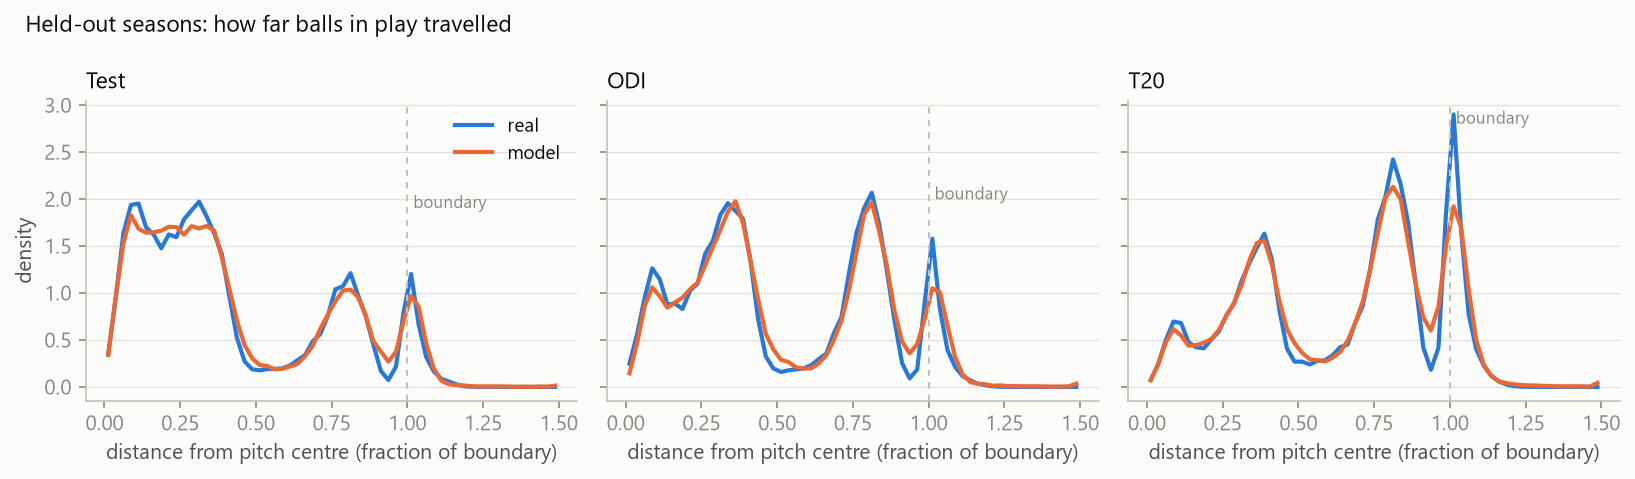
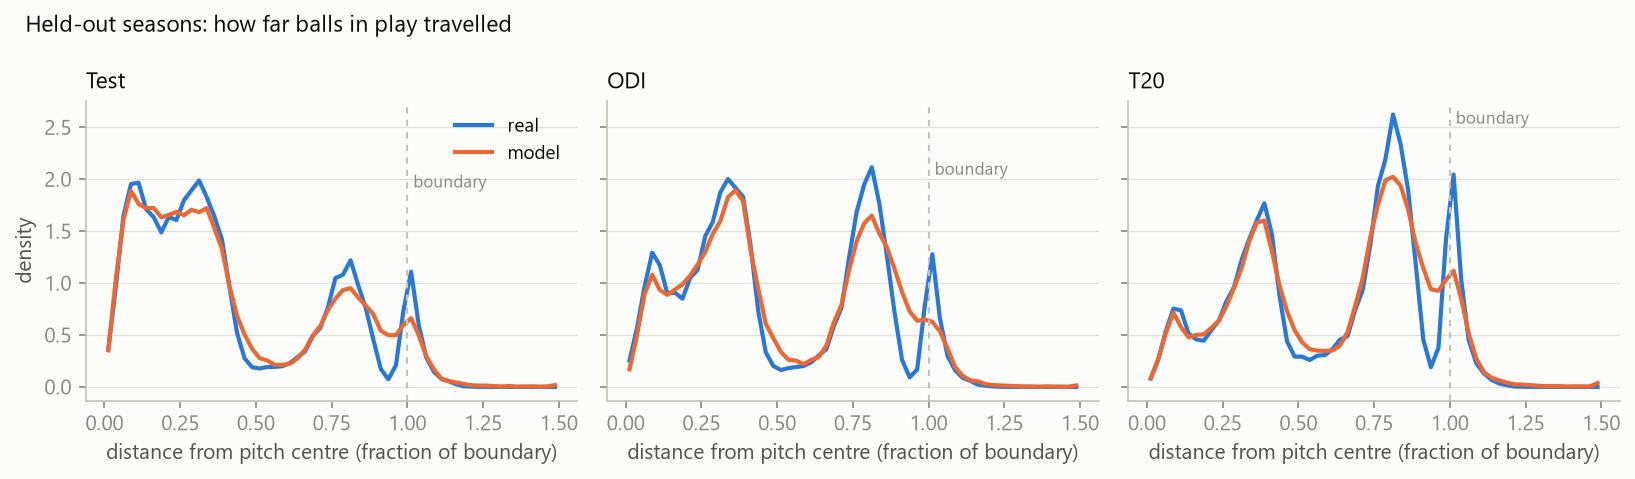
simulator calibration and field example figures

diff --git a/scripts/make_figures.py b/scripts/make_figures.py
@@ -17,7 +17,7 @@ import numpy as np  # noqa: E402
 import polars as pl  # noqa: E402
 
 from virtual_captain.models import encoding as enc  # noqa: E402
-from virtual_captain.paths import DATA_DIR, FIGURES_DIR, PROCESSED_DIR  # noqa: E402
+from virtual_captain.paths import DATA_DIR, FIGURES_DIR, PROCESSED_DIR, REPORTS_DIR  # noqa: E402
 from virtual_captain.viz import style  # noqa: E402
 from virtual_captain.viz.wagon import (  # noqa: E402
     plot_rose,
@@ -211,6 +211,93 @@ def shot_model_distance(test: pl.DataFrame, model, out: Path) -> None:
     plt.close(fig)
 
 
+def sim_calibration_plot(table: pl.DataFrame, out: Path) -> None:
+    """Real vs simulated rates on held-out seasons, one point per format/phase/bowling."""
+    panels = [
+        ("runs_per_ball", "runs per ball"),
+        ("dot", "dot balls"),
+        ("four", "fours"),
+        ("caught", "caught"),
+    ]
+    fig, axes = plt.subplots(1, 4, figsize=(13, 3.6))
+    for ax, (col, label) in zip(axes, panels, strict=True):
+        real, sim = table[f"real_{col}"].to_numpy(), table[f"sim_{col}"].to_numpy()
+        top = max(real.max(), sim.max()) * 1.12
+        line = np.array([0, top])
+        ax.plot(line, line, color=style.AXIS, lw=1)
+        for f in (0.9, 1.1):
+            ax.plot(line, line * f, color=style.GRID, lw=1, ls=(0, (3, 3)))
+        for fmt in ("TEST", "ODI", "T20"):
+            m = (table["format"] == fmt).to_numpy()
+            ax.scatter(
+                real[m],
+                sim[m],
+                s=36,
+                color=style.FORMAT_COLOURS[fmt],
+                label=FORMAT_NAMES[fmt],
+                edgecolor=style.SURFACE,
+                linewidth=1,
+                zorder=3,
+            )
+        ax.set_xlim(0, top)
+        ax.set_ylim(0, top)
+        ax.set_aspect("equal")
+        ax.set_title(label, loc="left")
+        ax.set_xlabel("real")
+    axes[0].set_ylabel("simulated")
+    axes[0].legend(loc="upper left", fontsize=8)
+    fig.suptitle(
+        "Simulator vs reality on held-out 2025-26 seasons (dashed lines: ±10%)",
+        fontsize=11,
+        x=0.02,
+        ha="left",
+    )
+    fig.tight_layout()
+    fig.savefig(out)
+    plt.close(fig)
+
+
+def _draw_fielders(ax, field: np.ndarray, colour: str) -> None:
+    from virtual_captain.field.positions import nearest_name
+
+    for x, y in field[:9]:
+        ax.scatter(x, y, s=70, color=colour, edgecolor=style.SURFACE, linewidth=1.5, zorder=4)
+        name = nearest_name(np.array([x, y])).replace("_", " ")
+        ax.text(x, y - 5.5, name, fontsize=6.5, ha="center", va="top", color=style.INK_SECONDARY)
+    for x, y in field[9:]:
+        ax.scatter(x, y, s=40, color=style.INK_MUTED, edgecolor=style.SURFACE, zorder=4)
+
+
+def field_example(df: pl.LazyFrame, out: Path, batter: str = "H Klaasen") -> None:
+    """The conventional T20 death field next to the one adapted to a batter's deep hitting."""
+    from virtual_captain.sim.calibrate import PROFILE_SECTORS, adapted_field, deep_profiles
+
+    rows = (
+        df.filter((pl.col("striker") == batter) & (pl.col("format") == "T20"))
+        .pipe(enc.add_labels)
+        .collect()
+    )
+    weights = next(iter(deep_profiles(rows).values()))
+    key = ("T20", "death", "pace")
+    fig, axes = plt.subplots(1, 2, figsize=(9.5, 5.2))
+    titles = ["Conventional T20 death field", f"Boundary riders moved to where {batter} hits"]
+    for ax, w, title in zip(axes, [None, weights], titles, strict=True):
+        shares = weights / weights.sum()
+        plot_rose(ax, shares, shares.max() * 1.6, colour=style.GRID)
+        _draw_fielders(ax, adapted_field(key, w), style.SERIES[0] if w is None else style.SERIES[1])
+        ax.set_title(title, fontsize=10)
+    fig.suptitle(
+        f"Grey wedges: where {batter}'s balls reach the deep in T20s "
+        f"({PROFILE_SECTORS} sectors, right-hander's view)",
+        fontsize=9,
+        color=style.INK_SECONDARY,
+        y=0.04,
+    )
+    fig.tight_layout(rect=(0, 0.05, 1, 1))
+    fig.savefig(out)
+    plt.close(fig)
+
+
 def main(argv: list[str] | None = None) -> int:
     p = argparse.ArgumentParser(description=__doc__)
     p.add_argument("--data", type=Path, default=PROCESSED_DIR / "deliveries.parquet")
@@ -240,6 +327,11 @@ def main(argv: list[str] | None = None) -> int:
         shot_model_distance(test, model, args.out / "shot_model_distance.png")
     else:
         print(f"no shot model at {SHOT_MODEL}, skipping model figures")
+
+    calibration = REPORTS_DIR / "sim_calibration.csv"
+    if calibration.exists():
+        sim_calibration_plot(pl.read_csv(calibration), args.out / "sim_calibration.png")
+    field_example(df, args.out / "field_example.png")
     print(f"figures written to {args.out}")
     return 0
 
